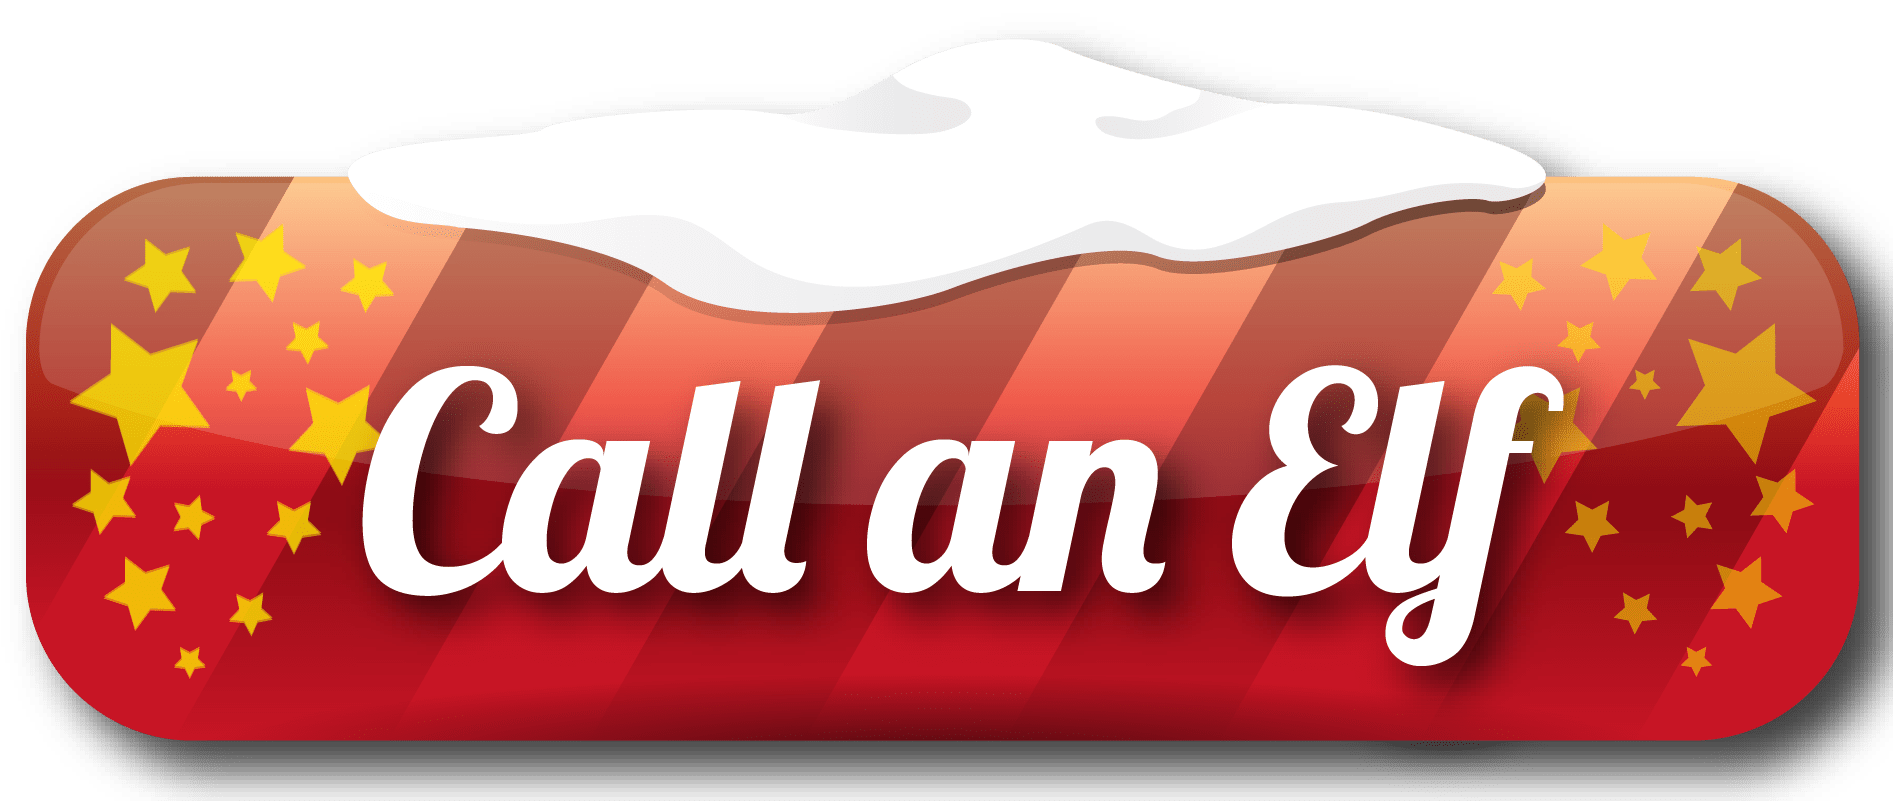
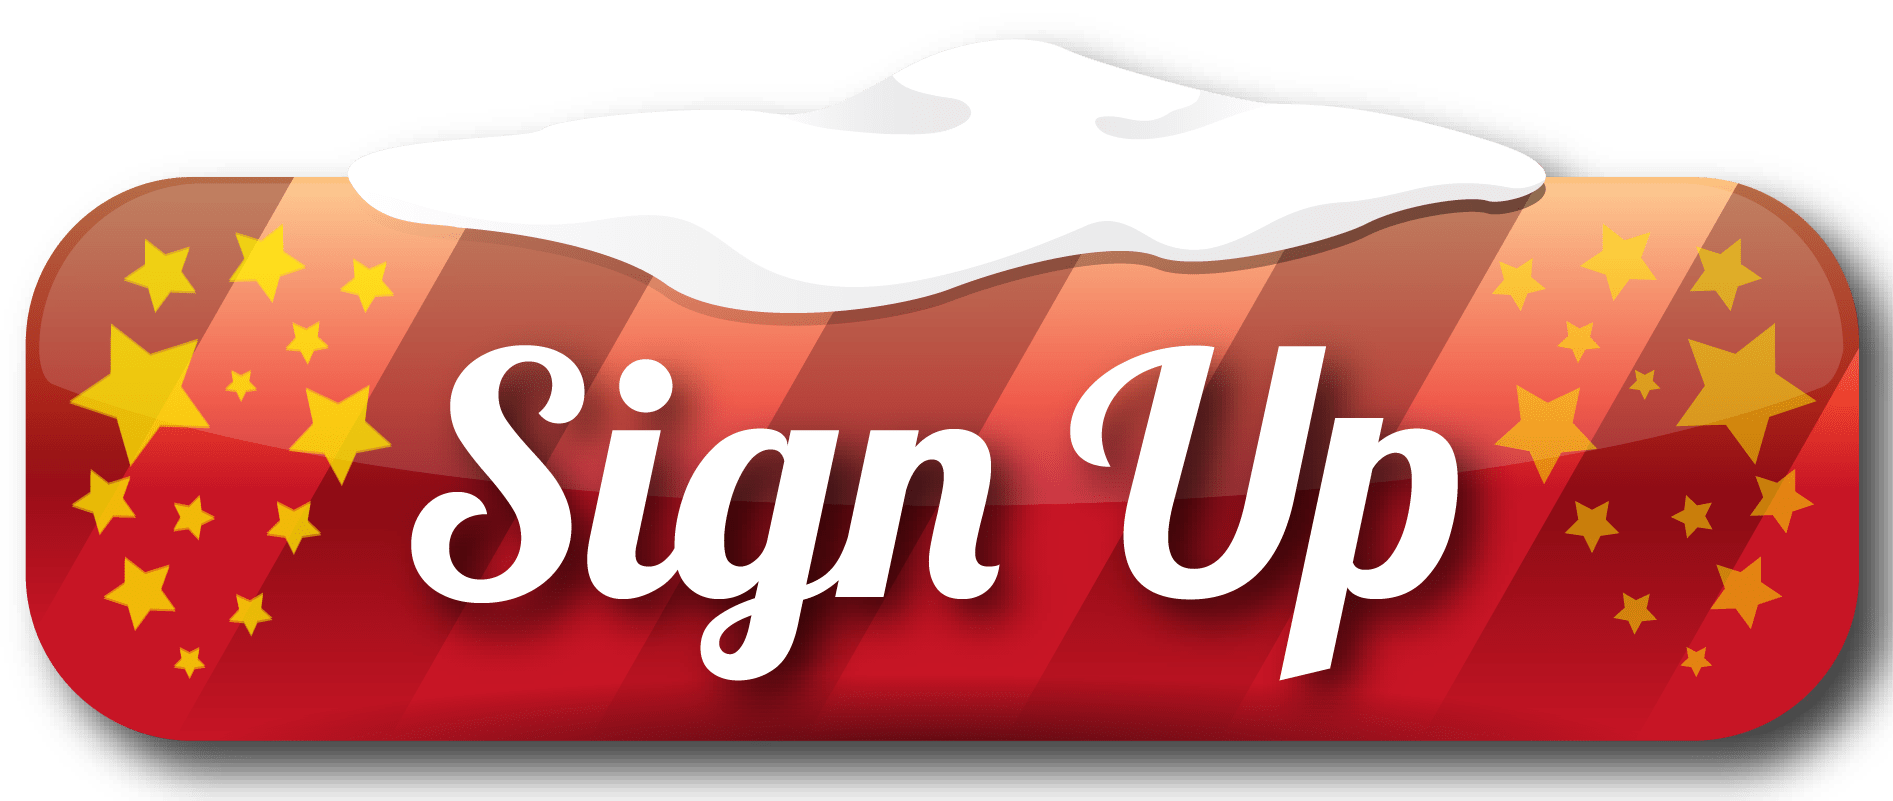
adjusted home message

Changed region(s): [[0.187, 0.4057, 0.8415, 0.9051], [0.8415, 0.7491, 0.8727, 0.7803]]

diff --git a/index.html b/index.html
@@ -40,8 +40,9 @@
       </div>
         
       <div class="middle-content-section">
-        <h4>holiday gift-wrapping<br><strong>Saturday, December 19, 2021, 10am-6pm</strong><br>San Jose Middle School<br>1000 Sunset Parkway, Novato</h4>
-        <h4><em>a youth-led enterprise <br>benefitting neighbors in need through<br>San Jose Middle School PTA</em></h4>
+        <h4>San Jose Middle School PTA<br>holiday gift-wrapping fundraiser<br><strong>Saturday, December 19, 2021, 10am-6pm</strong></h4>
+        <h4><em>to benefit students and families in need</em><br>
+        SIGN UP NOW!</h4>
       </div>
     
     </div>

diff --git a/book.html b/book.html
@@ -4,7 +4,7 @@
     <meta charset="utf-8">
     <meta http-equiv="x-ua-compatible" content="ie=edge">
     <meta name="viewport" content="width=device-width, initial-scale=1.0">
-    <title>Cole & Co | Elves on Call - Call an Elf</title>
+    <title>Cole & Co | Elves on Call - Sign Up</title>
     <link rel="stylesheet" href="css/foundation.css">
     <link href="https://unpkg.com/aos@2.3.1/dist/aos.css" rel="stylesheet">
     <link rel="stylesheet" href="css/app.css">
